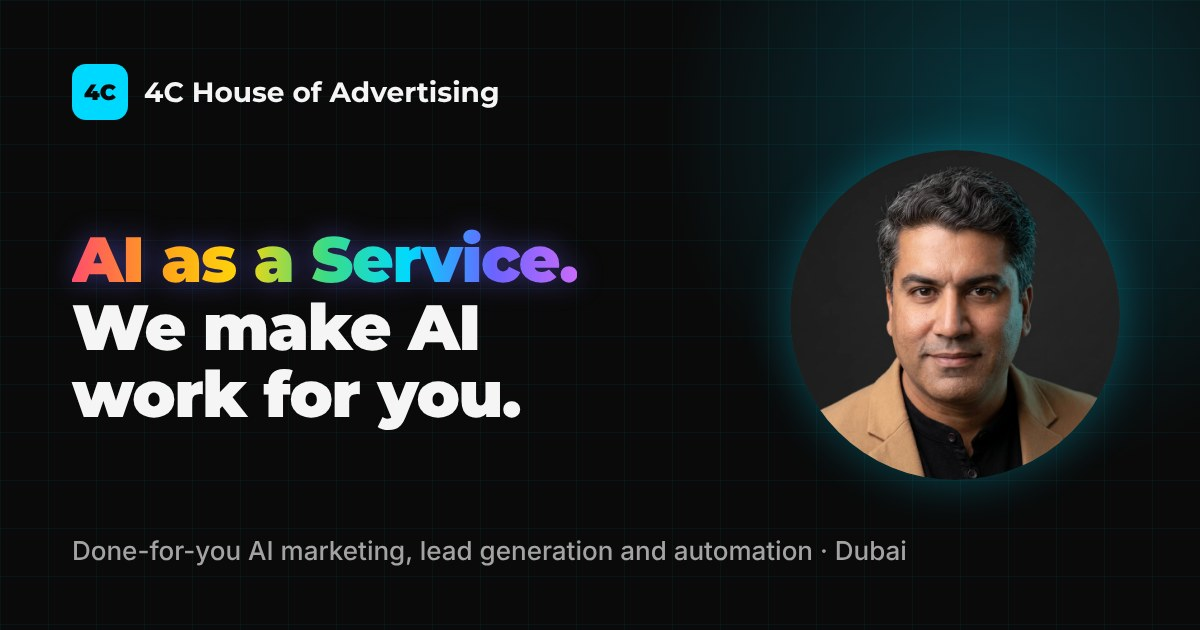
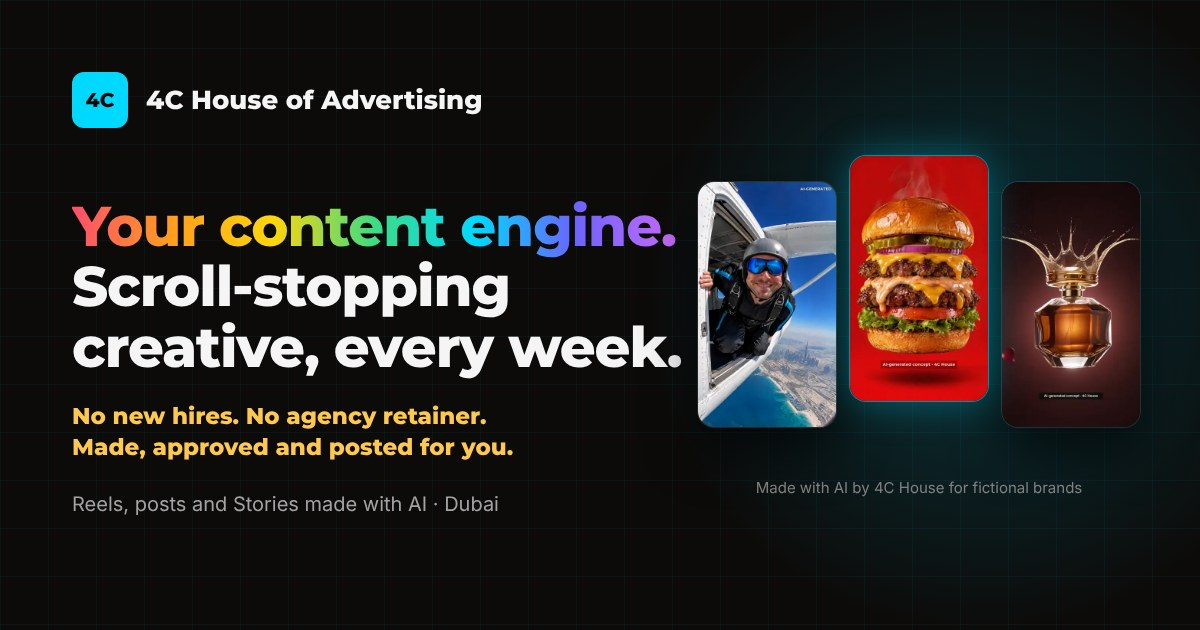
New share preview image for 'Your content engine'; brand book rainbow rule updated
Claude-Session: https://claude.ai/code/session_01NiEE7m4Hf7QDu3brAUGXzn

diff --git a/index.html b/index.html
@@ -16,7 +16,7 @@
   <meta property="og:image" content="https://4chouse.com/assets/og-image.jpg">
   <meta property="og:image:width" content="1200">
   <meta property="og:image:height" content="630">
-  <meta property="og:image:alt" content="AI as a Service. We make AI work for you. 4C House of Advertising, Dubai.">
+  <meta property="og:image:alt" content="Your content engine. Scroll-stopping creative, every week. 4C House of Advertising, Dubai, with three AI-made reels.">
   <meta name="twitter:card" content="summary_large_image">
   <link rel="icon" href="/favicon.ico" sizes="48x48">
   <link rel="icon" href="/favicon.svg" type="image/svg+xml">

diff --git a/brand/4C-House-Brand-Book.md b/brand/4C-House-Brand-Book.md
@@ -10,7 +10,7 @@
 - **Services:** Websites · Content · Marketing chatbots · Lead generation · AI automations (plus operations, finance and HR automation).
 - **Method:** Diagnose → Prescribe → Implement → Monitor (the business doctor / trusted mechanic).
 - **Proof:** 24 years designing and building mall activations, exhibition stands, retail interiors and kiosks for big brands.
-- **Look:** dark near-black (#0c0b0a), brand cyan (#00d9ff), warm crayon yellow (#ffc94d), Montserrat headlines, Inter body, a faint animated network of cyan nodes and dashed lines behind everything, and a rainbow gradient only on "AI as a Service."
+- **Look:** dark near-black (#0c0b0a), brand cyan (#00d9ff), warm crayon yellow (#ffc94d), Montserrat headlines, Inter body, a faint animated network of cyan nodes and dashed lines behind everything, and a rainbow gradient only on the lead line, "Your content engine." (from 17 Nov 2026; before that it was "AI as a Service.")
 - **Main call to action:** Book a free diagnostic. Secondary: Chat on WhatsApp.
 - **Contact:** +971 52 453 4410 · hello@4chouse.com · @4c.house · 4chouse.com · Dubai, UAE
 
@@ -95,9 +95,9 @@ Rules:
 
 ### The rainbow headline
 
-"AI as a Service." is set in a rainbow gradient (`rainbow-1` to `rainbow-7`, back to `rainbow-1`), 300% wide, sliding sideways over 8 seconds, with a 16px blurred copy behind it at 80% opacity as a glow. The line below it ("We make AI work for you.") stays plain `fg`.
+"Your content engine." (the lead line since 17 Nov 2026; "AI as a Service." before) is set in a rainbow gradient (`rainbow-1` to `rainbow-7`, back to `rainbow-1`), 300% wide, sliding sideways over 8 seconds, with a 16px blurred copy behind it at 80% opacity as a glow. The line below it ("Scroll-stopping creative, every week.", formerly "We make AI work for you.") stays plain `fg`.
 
-- Use the rainbow for **"AI as a Service."** and nothing else. One rainbow per screen, slide or video.
+- Use the rainbow for the lead line **"Your content engine."** and nothing else. "AI as a Service." stays as a plain-text brand line (footer, bios), without the rainbow. One rainbow per screen, slide or video.
 - It always sits on `bg`.
 - With reduced motion, the gradient stops moving; it stays rainbow.
 
@@ -228,7 +228,7 @@ Every reel and ad ends on a 3–4 second end card built from the website hero:
 1. The network background (see Foundations and the NetworkBackground component): the fine grid, the two layers of dashed cyan links with pulses running down them, and the slow `cyan` and `warm-glow` orbs. In video, let it glide slowly upward the whole time, as if the viewer were scrolling.
 2. The 4C tile with a soft pulsing glow.
 3. **4C House** in Montserrat Black with a neon `cyan` glow (`4c-neon.png`), "OF ADVERTISING" small, spaced, beneath.
-4. **"AI as a Service."** in the moving rainbow, then "We make AI work for you." in `fg`.
+4. **"Your content engine."** in the moving rainbow, then "Scroll-stopping creative, every week." in `fg`.
 5. The services as `cyan-edge` pills that light up one after another: Websites, Content, Marketing chatbots, Lead generation, AI automations.
 6. "Book your package" in `crayon-yellow`, then a glowing solid `cyan` pill with **4chouse.com** in `bg`.
 
@@ -439,7 +439,7 @@ The header and footer logo: the cyan 4C tile beside the full name.
 
 ### RainbowHeadline
 
-The hero headline: "AI as a Service." in a slowly moving, glowing rainbow, with "We make AI work for you." beneath in white, and the offer line in crayon yellow.
+The hero headline: "Your content engine." in a slowly moving, glowing rainbow, with "Scroll-stopping creative, every week." beneath in white, and the offer line in crayon yellow.
 
 #### What you provide
 - The exact words "AI as a Service." in both the `data-text` attribute and the inner span (the attribute draws the glow).

diff --git a/docs/website-repositioning-plan-2026-11-17.md b/docs/website-repositioning-plan-2026-11-17.md
@@ -101,5 +101,5 @@ Sell 4C House as **your own content creation department**. We make all the creat
 - The check-up quiz and the crayon film were removed, and `assets/js` was deleted because nothing uses it any more.
 
 **Still to do:**
-- `assets/og-image.jpg` still says "AI as a Service" (the link preview image). Make a new one for "Your content engine".
+- ~~New share preview image~~ Done 17 Nov: `assets/og-image.jpg` now shows "Your content engine." with three reels.
 - After deploy, re-run PageSpeed and request indexing again.
